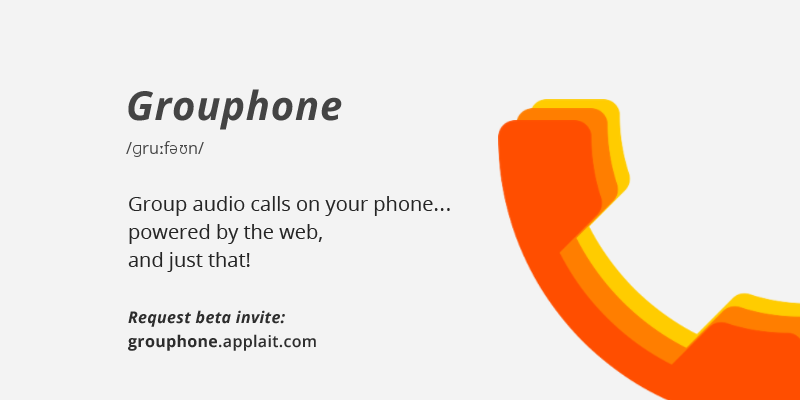
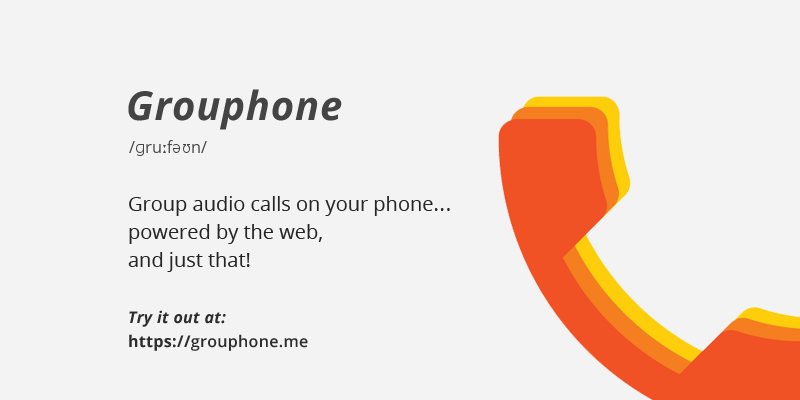
Update social media tags info and social media image

diff --git a/static/index.html b/static/index.html
@@ -22,23 +22,23 @@
     <!-- Social Media Tags-->
     <!-- Facebook -->
     <meta property="og:type"          content="website" />
-    <meta property="og:url"           content="http://grouphone.applait.com/" />
+    <meta property="og:url"           content="https://grouphone.me/" />
     <meta property="og:title"         content="Grouphone" />
     <meta property="og:site_name"     content="applait" />
     <meta property="og:description"   content="Group audio calls on your phone... and just that." />
-    <meta property="og:image"         content="http://grouphone.applait.com/img/social.png" />
+    <meta property="og:image"         content="https://grouphone.me/img/social.png" />
     <!-- Google -->
     <meta itemprop="name"             content="Grouphone">
     <meta itemprop="description"      content="Group audio calls on your phone... and just that.">
-    <meta itemprop="image"            content="http://grouphone.applait.com/img/social.png">
+    <meta itemprop="image"            content="https://grouphone.me/img/social.png">
     <!-- Twitter -->
     <meta name="twitter:card"         content="summary_large_image">
     <meta name="twitter:site"         content="@applait">
     <meta name="twitter:title"        content="Grouphone">
     <meta name="twitter:description"  content="Group audio calls on your phone... and just that.">
     <meta name="twitter:creator"      content="@applait">
-    <meta name="twitter:image:src"    content="http://grouphone.applait.com/img/social.png">
-    <meta name="twitter:domain"       content="http://grouphone.applait.com/">
+    <meta name="twitter:image:src"    content="https://grouphone.me/img/social.png">
+    <meta name="twitter:domain"       content="https://grouphone.me/">
 
     <!-- Polyfil for IE -->
     <!--[if lt IE 9]>
